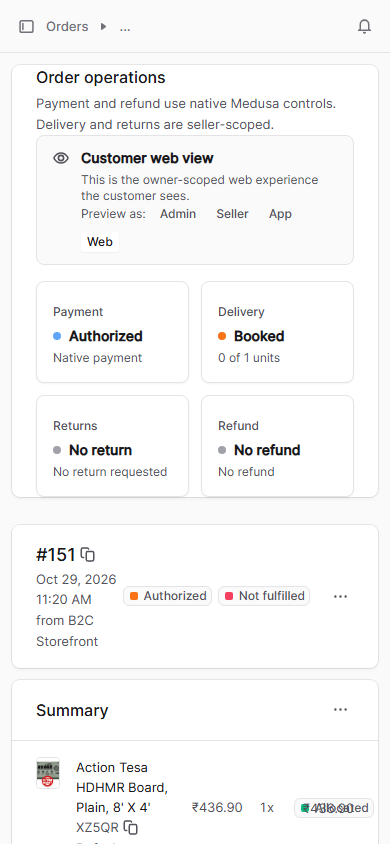
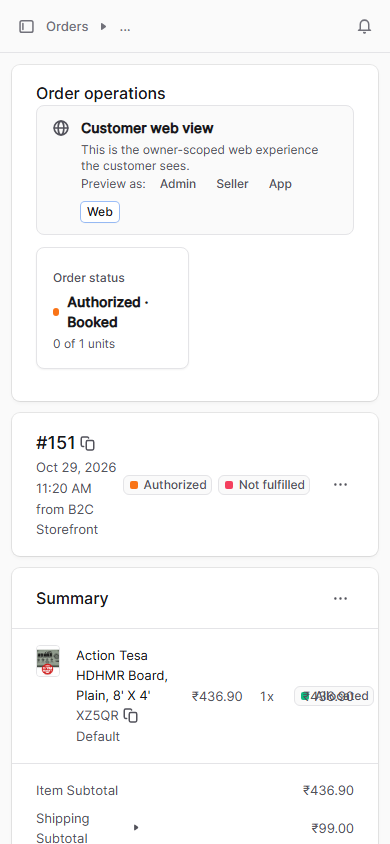
docs(chg-096): record v6 staging deploy with top-chrome polish
- Update CHG-096.yaml and workflow-state.yaml for release-5f6c90b,
  new medusa image SHA, and pass-56-of-56 browser QC.
- Update staging-admin-qc.mjs selectors and checks for mode-specific
  status strip, reconciliation card, payment-ready attention, and
  hidden Jump-to nav in non-Admin modes.
- Regenerate evidence (JSON + screenshots) and update
  staging-deployment.md.

diff --git a/client-projects/client101/evidence/CHG-096/staging-deployment.md b/client-projects/client101/evidence/CHG-096/staging-deployment.md
@@ -1,7 +1,7 @@
 # CHG-096 — Staging deployment and Admin order-detail QC
 
 **Status:** STAGING DEPLOYED AND VERIFIED
-**Change:** CHG-096 Revision 1 — Admin order-detail top-chrome UX (status strip, Payments card, role-mode banner)
+**Change:** CHG-096 Revision 1 — Admin order-detail top-chrome UX polish
 **Environment:** staging only. Production is not authorized and was not touched.
 **Deploy owner:** requester-authorized OpenCode agent
 **Completed:** 2026-10-29
@@ -13,38 +13,45 @@
 | Item | Value |
 |---|---|
 | Baseline before release | `/opt/buildkart-releases/release-b7f93b9` (`b7f93b9`, CHG-094) |
-| Target branch | `release/chg-096-5` |
-| Release commit | `65b04c6839728aa64380a2df5980cc539bcd46d0` |
-| Commit range | `b7f93b9..65b04c6` — Admin top-chrome changes only |
-| Release worktree | `/opt/buildkart-releases/release-65b04c6` |
-| Current symlink | `/opt/buildkart-releases/current -> release-65b04c6` |
+| Target branch | `release/chg-096-6` |
+| Release commit | `5f6c90b115d0cd961b2123eb9a79b50a05b42195` |
+| Commit range | `b7f93b9..5f6c90b` — Admin top-chrome changes only |
+| Release worktree | `/opt/buildkart-releases/release-5f6c90b` |
+| Current symlink | `/opt/buildkart-releases/current -> release-5f6c90b` |
 | Rollback release | `/opt/buildkart-releases/release-b7f93b9` |
 | Rollback image | `buildkart-hosted-pilot-medusa:rollback-b7f93b9` (`sha256:7db0f1e59c82`) |
-| New image | `buildkart-hosted-pilot-medusa:latest` (`sha256:2e64923a4383`) |
+| New image | `buildkart-hosted-pilot-medusa:latest` (`sha256:eb5e1500cbc0`) |
 | Production release | Not authorized |
 
 ## 2. What changed
 
-- Added `services/backend/apps/admin/src/components/order-preview/index.tsx` with reusable top-chrome components:
-  - `StatusStrip` — unified Payment / Delivery / Returns / Refund tiles.
-  - `PaymentsCard` — authorized, captured, refunded, outstanding amounts with payment method/reference.
-  - `PreviewModeBanner` — Polaris-style banner that shows the current perspective (Admin/Seller/App/Web) and inline preview links.
-  - `AttentionStack`, `SectionNav`, `usePreviewMode`.
-- Refactored `services/backend/apps/admin/src/widgets/order-workbench-status.tsx` to use the new status strip and `PreviewModeBanner`.
-- Updated `services/backend/apps/admin/src/widgets/order-delivery-returns.tsx` to embed `PaymentsCard` and hide Admin payment/refund/delivery-update controls in Seller/App/Web preview modes.
+Scoped to `services/backend/apps/admin/src/components/order-preview/index.tsx` and the two Admin widgets:
+
+- **Polaris-style `PreviewModeBanner`** with mode-specific icons (Admin=User, Seller=BuildingStorefront, App=Phone, Web=Globe), colored left border, and a highlighted active preview link.
+- **Mode-aware status strip:**
+  - Admin: Payment / Delivery / Returns / Refund
+  - Seller: Delivery / Returns
+  - App/Web: single "Order status" tile
+- **Improved microcopy** on the status strip: "Ready to capture", "Payment captured", "No refund issued", etc.
+- **Attention stack** now surfaces a "Payment ready to capture" item for authorized payments in Admin mode.
+- **Payments card moved** from the delivery/returns widget into the top chrome, directly under the status strip for Admin mode.
+- **New `ReconciliationCard`** summarizing Payment / Delivery / Returns / Refund system state.
+- **SectionNav** is now horizontally scrollable and hidden for Seller/App/Web modes.
+- Removed the redundant subtitle under "Order operations" and reduced top-chrome vertical spacing.
 
 ## 3. What was NOT changed
 
 - `services/backend/apps/admin/fulfillment-preview*` harness — left untouched as reference.
 - Customer web, seller portal, experience API, Medusa modules, database schema.
+- Native Medusa order actions (Capture payment, Update delivery status, Return workbench).
 - Production.
 
 ## 4. Deployment procedure
 
 1. Acquired `/var/lock/buildkart-staging-deploy` (deploy owner: requester-authorized OpenCode agent).
-2. Created scoped release branch `release/chg-096-5` from baseline `b7f93b9` and cherry-picked the Admin top-chrome commits.
+2. Created scoped release branch `release/chg-096-6` from baseline `b7f93b9` and cherry-picked the Admin top-chrome commits.
 3. Built a fresh Medusa backend image (`medusa-api` + `medusa-worker`) with `--no-cache`.
-4. Switched `/opt/buildkart-releases/current` to `release-65b04c6`, recreated Medusa containers, and restarted the proxy.
+4. Switched `/opt/buildkart-releases/current` to `release-5f6c90b`, recreated Medusa containers, and restarted the proxy.
 5. Verified public health endpoints and admin bundle markers.
 6. Ran automated browser QC against order #151 at desktop (1440×900) and mobile (390×844).
 7. Preserved rollback image `buildkart-hosted-pilot-medusa:rollback-b7f93b9`.
@@ -62,14 +69,13 @@
 
 ### 5.2 Bundle marker check
 
-Main admin bundle `/dashboard/assets/index-C7Avb4gI.js` contains:
+Main admin bundle `/dashboard/assets/index-ChQIUnVk.js` contains:
 
-- `Order operations` ✅
-- `Payments` ✅
-- `Authorized` ✅
-- `Captured` ✅
-- `Refunded` ✅
-- `Outstanding` ✅
+- `System reconciliation` ✅
+- `One flow, independently verifiable effects` ✅
+- `Order status` ✅
+- `Ready to capture` ✅
+- `No refund issued` ✅
 - `Preview as` ✅
 - `Admin view` ✅
 - `Seller view` ✅
@@ -82,19 +88,21 @@ Run: `node client-projects/client101/evidence/CHG-096/staging-admin-qc.mjs`
 
 Reference order: `#151` / `BK-261029-WT4R93` / `order_01M633BSHHWEMM9YT6K5S7PVCZ` / group `og_01M633BSJSH4023AHJPCKHNNKA`.
 
-Summary: **40/40 PASS**; 0 console errors; 0 unexpected failed requests.
+Summary: **56/56 PASS**; 0 console errors; 0 unexpected failed requests.
 
 Checked per viewport (desktop + mobile):
 
 - Login succeeds and order page loads.
 - No horizontal document overflow.
-- Status strip shows Payment / Delivery / Returns / Refund.
+- Admin status strip shows Payment / Delivery / Returns / Refund.
 - Payments card shows Authorized, Captured, Refunded, Outstanding amounts (₹514.06 authorized/outstanding).
-- Preview-mode banner shows the current perspective and "Preview as" Admin / Seller / App / Web links.
-- Seller mode shows Seller-view banner and hides native Medusa payment controls.
-- App mode shows Customer-app-view banner.
-- Web mode shows Customer-web-view banner.
-- Admin mode shows Admin-view banner, native payment controls, and Update delivery status action.
+- Reconciliation card shows Payment / Delivery / Returns / Refund rows.
+- Attention stack shows "Payment ready to capture".
+- Preview-mode banner shows the current perspective and "Preview as" Admin / Seller / App / Web links with mode-specific icons.
+- Seller mode shows Seller-view banner, simplified Delivery + Returns status strip, hides Jump-to nav, and hides native payment controls.
+- App mode shows Customer-app-view banner, single "Order status" tile, hides Jump-to nav.
+- Web mode shows Customer-web-view banner, single "Order status" tile, hides Jump-to nav.
+- Admin mode shows Admin-view banner, Jump-to nav, native payment controls, and Update delivery status action.
 
 Screenshots saved in `client-projects/client101/evidence/CHG-096/screenshots/`.
 
